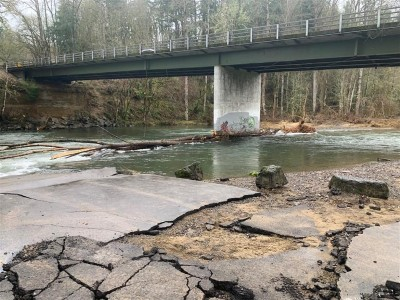
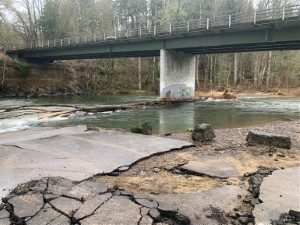
Changed the dimensions of W6RKT's thumbnail image.

diff --git a/index.html b/index.html
@@ -347,7 +347,7 @@
                 168, W6RKT, VARA FM, K7LSC-10, 144.960, Battle Ground, Clark, WA
             </p>
             <a href="./images/W6RKT.jpg">
-                <img class="utility_thumbnail_right" src="./images/W6RKT_thumb.jpg" style="height: 300px; width: 400px">
+                <img class="utility_thumbnail_right" src="./images/W6RKT_thumb.jpg" style="height: 225px; width: 300px">
             </a>
             <p>NE Daybreak Road @ Daybreak Park</p>
             <ul>
